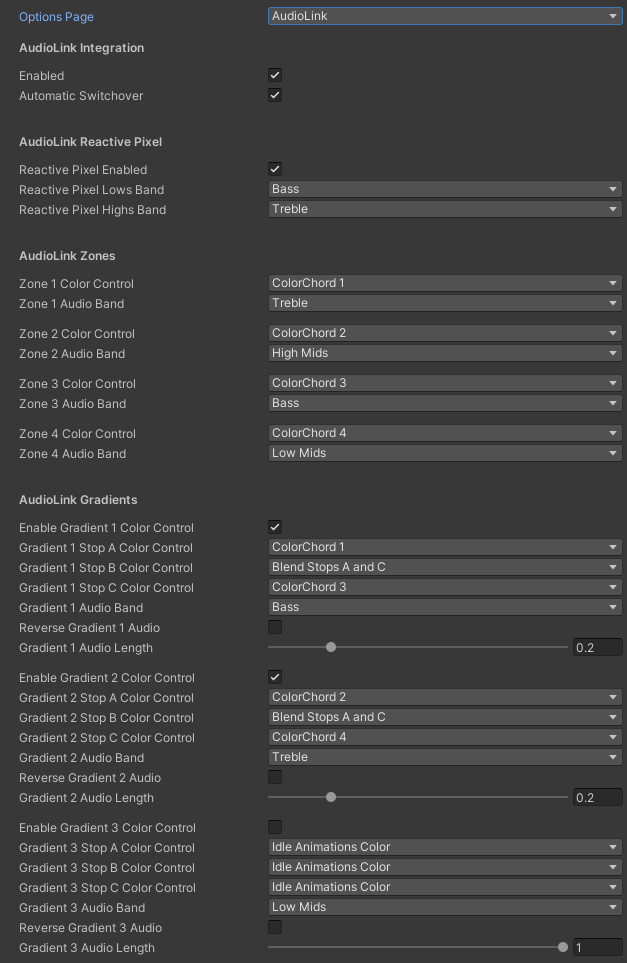
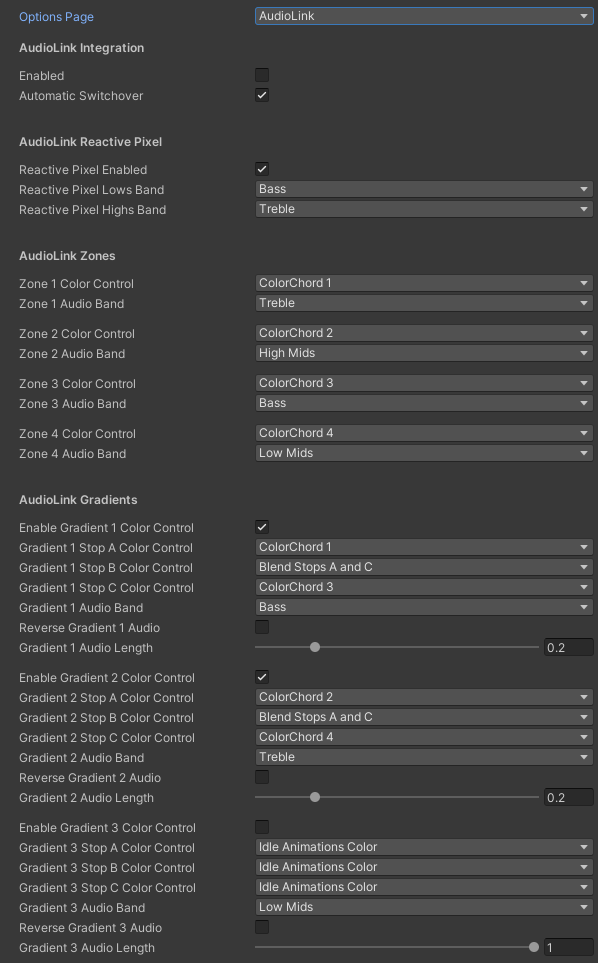
Write data to itself instead.

diff --git a/src/LumaDriver/Scripts/Editor/LumaDriver_GUI.cs b/src/LumaDriver/Scripts/Editor/LumaDriver_GUI.cs
@@ -26,8 +26,6 @@ public class LumaDriver_GUI : ShaderGUI
         ShowProperty("_LumaPixel");
         ShowProperty("_ReactiveIdle");
         ShowProperty("_DebugZone");
-
-        ShowProperty("_ALActiveTexture");
     }
     
     void ShowPage_IdleAnimations() {

diff --git a/README.md b/README.md
@@ -19,7 +19,8 @@ A live demo is available in the [Luminescent Ledge](https://vrchat.com/home/worl
 1. Import the Unity package.
 2. Drag the `LumaDriver` prefab into the scene.
 3. Make sure it is far away from the scene. It should be on Y=1000000 by default.
-4. You are done! Enjoy the beautiful glow once more! Check below for customization options for the driver...
+4. If you wish to use AudioLink, you will have to enable it. Check the AudioLink section below to see how to do that.
+5. You are done! Enjoy the beautiful glow once more! Check below for customization options for the driver...
 
 ## Customization
 If you want to play around with the parameters, open the CustomRenderTexture in the following location: `LumaDriver/CustomRenderTexture/LumaDriver_CRT`, expand the shader parameters to be able to modify them to your liking. The parameters are split up on four separate pages for easier navigation.
